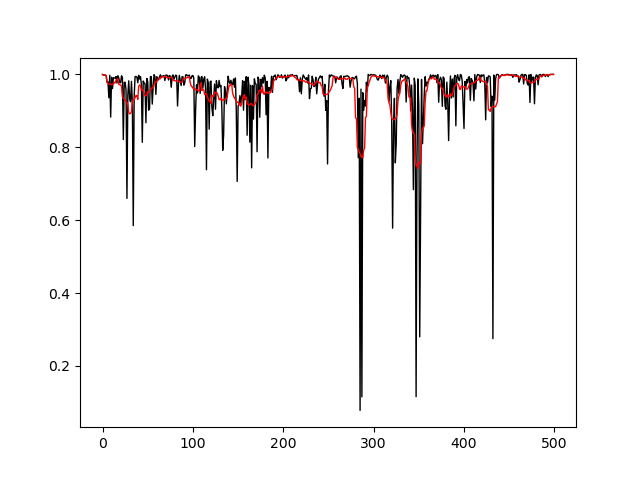
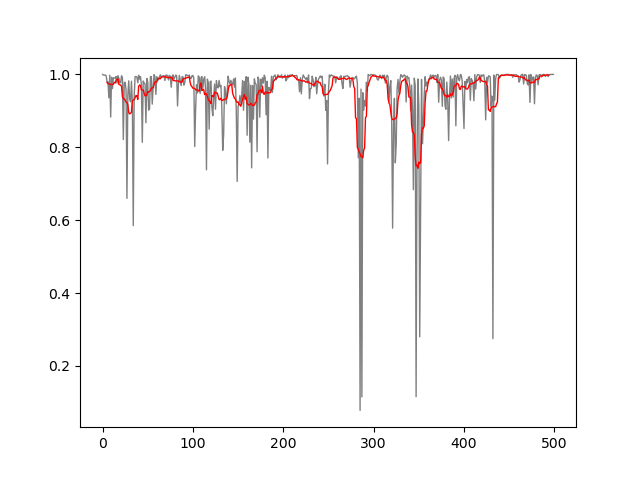
Removed extreme values on the terminals, changed color of the raw plot.

Changed region(s): [[0.1562, 0.1562, 0.7812, 0.8125], [0.8125, 0.1562, 0.8438, 0.2188]]

diff --git a/thermoclass/results.py b/thermoclass/results.py
@@ -103,19 +103,19 @@ def plot_predictions(predictions_file, seq_key, indeces, sep, output_png, k=0):
 			x_values.append(int(line_arr[indeces[0]]))
 			y_values.append(float(line_arr[indeces[1]]))
 
-	plt.plot(x_values, y_values, linewidth=1, color='black')
+	plt.plot(x_values, y_values, linewidth=1, color='grey')
 	if(k != 0):
+		x_smoothened_values = []
 		y_smoothened_values = []
 		for i in x_values:
 			if(i-int(k/2) >= 0 and i-int(k/2)+(k-1) < len(x_values)):
 				window = []
 				for j in range(k):
 					window.append(y_values[i-int(k/2)+j])
+				x_smoothened_values.append(x_values[i])
 				y_smoothened_values.append(statistics.mean(window))
-			else:
-				y_smoothened_values.append(y_values[i])
 
-	plt.plot(x_values, y_smoothened_values, linewidth=1, color='red')
+	plt.plot(x_smoothened_values, y_smoothened_values, linewidth=1, color='red')
 	plt.savefig(output_png)
 	plt.clf()
 
